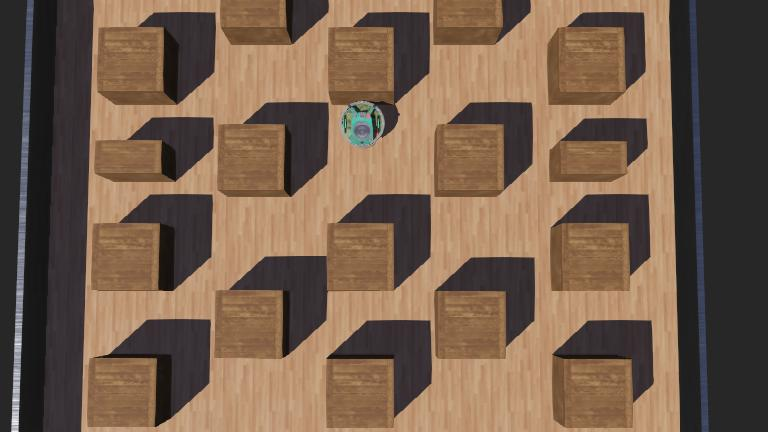
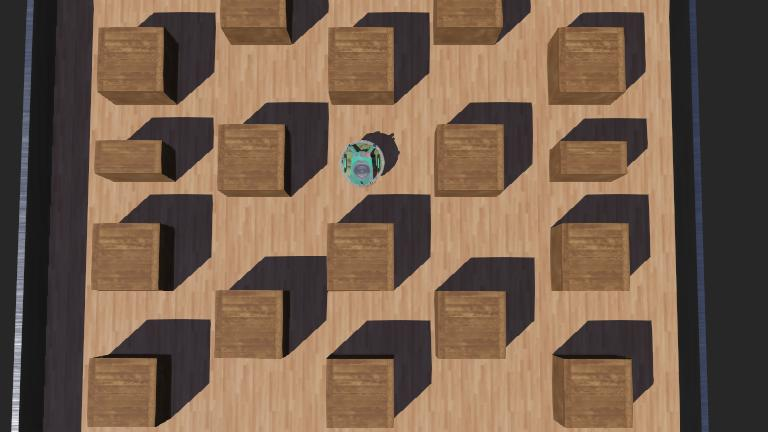
ATT colisao
apos colisao frontal o robo gira 90 graus
teste com colisao lateral e pequeno ajuste de direcao
uso da funcao delay para girar

Changed region(s): [[0.4375, 0.2106, 0.5312, 0.4514]]

diff --git a/controllers/my_controller/my_controller.c b/controllers/my_controller/my_controller.c
@@ -32,6 +32,19 @@
 #define TamanhoTexto 256
 #define QtddCaixa 20
 
+void delay(int time_milisec)
+  {
+    double currentTime, initTime, Timeleft;
+    double timeValue = (double)time_milisec/1000;
+    initTime = wb_robot_get_time();
+    Timeleft =0.00;
+    while (Timeleft < timeValue)
+    {
+      currentTime = wb_robot_get_time();
+      Timeleft=currentTime-initTime;
+      wb_robot_step(TIME_STEP);
+    }
+  }
 
 /*
  * This is the main program.
@@ -131,8 +144,11 @@ int main(int argc, char **argv) {
    * Perform simulation steps of TIME_STEP milliseconds
    * and leave the loop when the simulation is over
    */
-
+  prev_encoder_esq = wb_position_sensor_get_value(encoder_esq);
+  prev_encoder_dir = wb_position_sensor_get_value(encoder_dir);
+  
   while (wb_robot_step(TIME_STEP) != -1) {
+
     //lendo sensores de proximidade
     for(i=0;i<QtddSensoresProx;i++){
        LeituraSensorProx[i]= wb_distance_sensor_get_value(SensorProx[i])-60;
@@ -161,12 +177,46 @@ int main(int argc, char **argv) {
 
     //mostrando valores lidos
     printf("%s\n",texto);
+
     //colisao
-    if (LeituraSensorProx[0] > 200){
+    if (LeituraSensorProx[0] > 200 || LeituraSensorProx[7] > 200){
       printf("Colisao");
-      wb_motor_set_velocity(MotorEsquerdo,0);
+      wb_motor_set_velocity(MotorEsquerdo,0); // para os motores
+      wb_motor_set_velocity(MotorDireito,0);
+
+      wb_motor_set_velocity(MotorEsquerdo, 6.28); // processo para girar o robo
+      wb_motor_set_velocity(MotorDireito, -6.28);
+      delay(1500);
+
+      wb_motor_set_velocity(MotorEsquerdo,0); // para os motores
       wb_motor_set_velocity(MotorDireito,0);
     }
+    
+    /*else if (LeituraSensorProx[6] > 150 || LeituraSensorProx[5] > 150){
+      printf("Colisao lateral");
+      wb_motor_set_velocity(MotorEsquerdo,0); // para os motores
+      wb_motor_set_velocity(MotorDireito,0);
+      
+      wb_motor_set_velocity(MotorEsquerdo, 6.28); // processo para girar o robo
+      wb_motor_set_velocity(MotorDireito, -6.28);
+      delay(500);
+
+      wb_motor_set_velocity(MotorEsquerdo,0); // para os motores
+      wb_motor_set_velocity(MotorDireito,0);
+    }
+    
+    else if (LeituraSensorProx[1] > 150 || LeituraSensorProx[2] > 150){
+      printf("Colisao lateral");
+      wb_motor_set_velocity(MotorEsquerdo,0); // para os motores
+      wb_motor_set_velocity(MotorDireito,0);
+      
+      wb_motor_set_velocity(MotorEsquerdo, -6.28); // processo para girar o robo
+      wb_motor_set_velocity(MotorDireito, 6.28);
+      delay(500);
+
+      wb_motor_set_velocity(MotorEsquerdo,0); // para os motores
+      wb_motor_set_velocity(MotorDireito,0);
+    }*/
     else{
       wb_motor_set_velocity(MotorEsquerdo, 6.28* AceleradorEsquerdo);
       wb_motor_set_velocity(MotorDireito , 6.28* AceleradorDireito);
